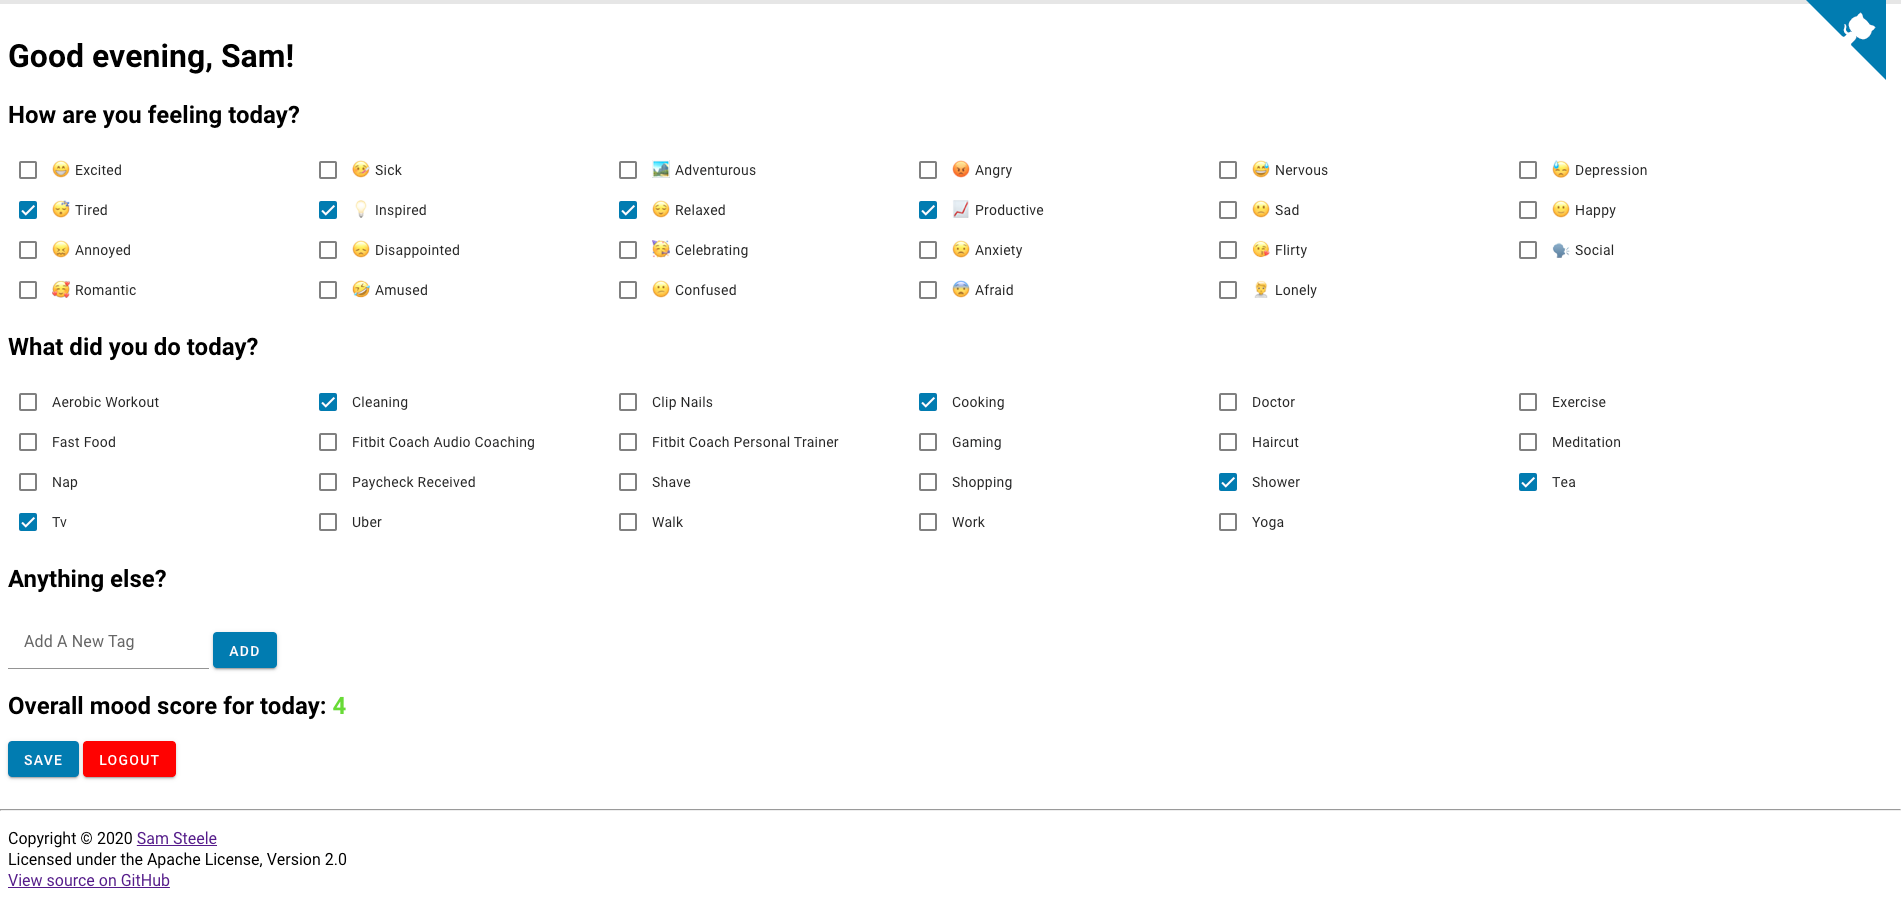
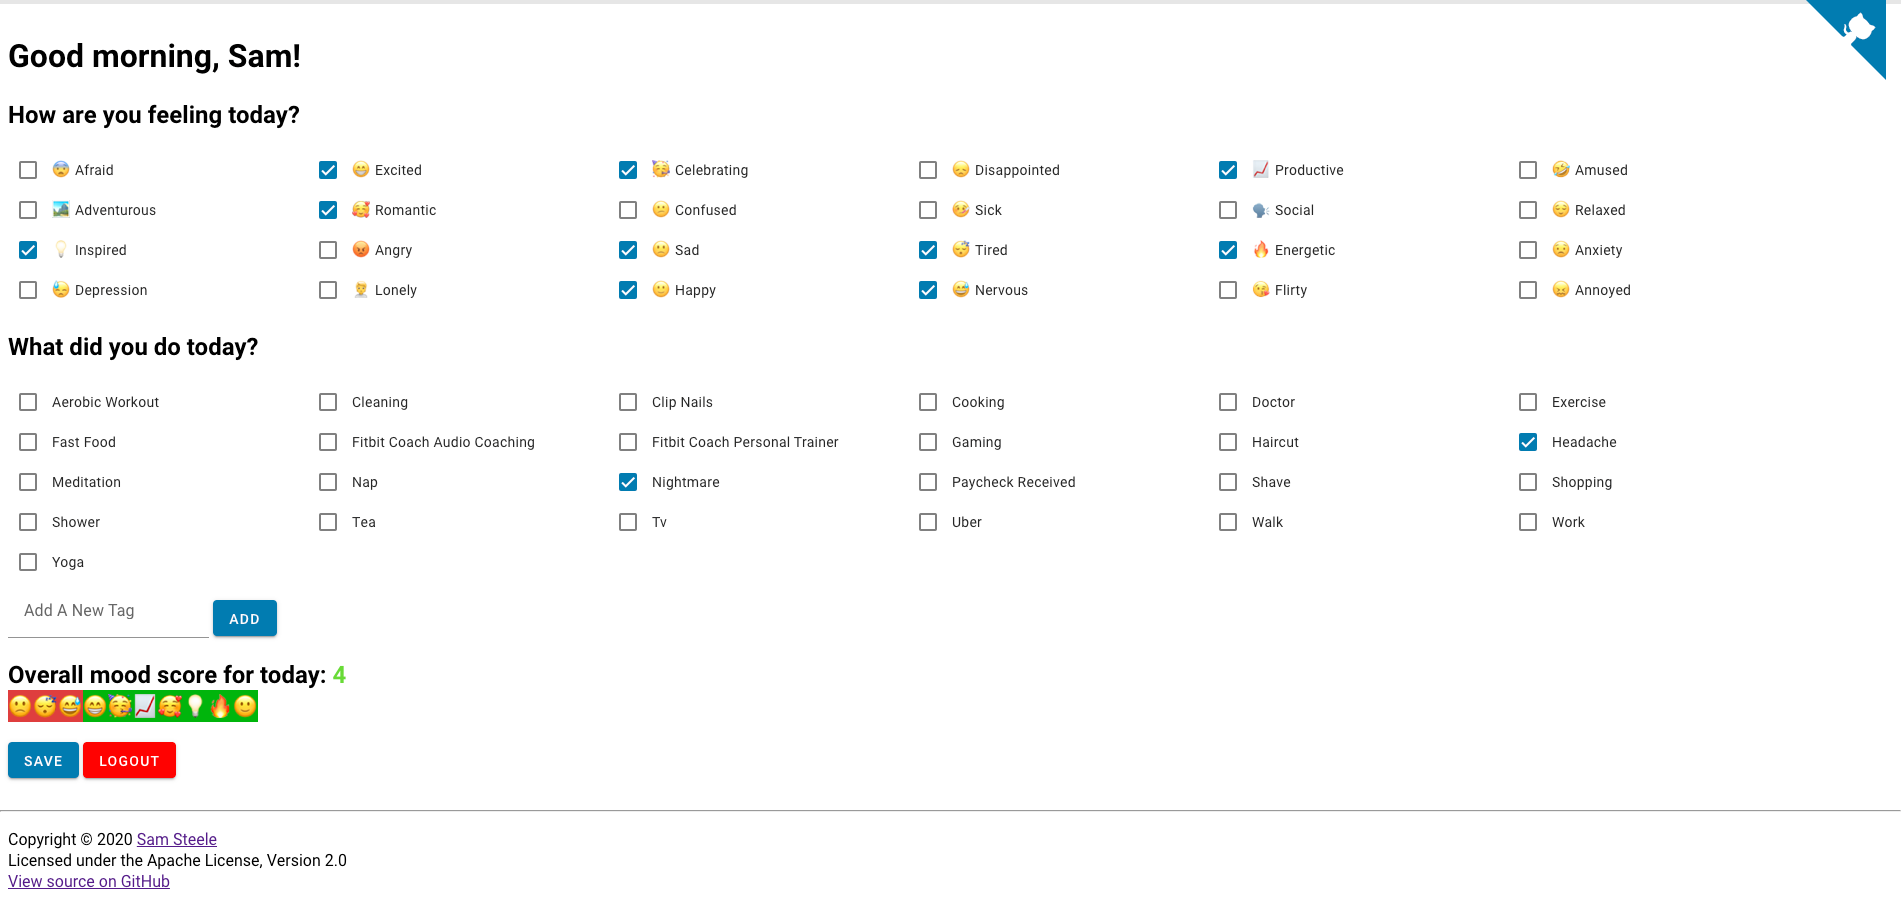
refactor emotion arrays, display positive and negative emojis below the score

diff --git a/script.js b/script.js
@@ -15,63 +15,38 @@
 
 let CLIENT_ID = "";
 let CLIENT_SECRET = "";
-let REDIRECT_URI = "https://localhost";
+let REDIRECT_URI = "https://localhost/";
 
-let positive_emotions = [
-  "adventurous",
-  "amused",
-  "celebrating",
-  "excited",
-  "flirty",
-  "happy",
-  "inspired",
-  "productive",
-  "relaxed",
-  "romantic",
-  "social"
-];
-let negative_emotions = [
-  "afraid",
-  "angry",
-  "annoyed",
-  "anxiety",
-  "confused",
-  "depression",
-  "disappointed",
-  "lonely",
-  "nervous",
-  "sad",
-  "sick",
-  "tired"
-];
-let emoji = {
+let emotions = [
   //positive
-  "adventurous": '🏞',
-  "amused":'🤣',
-  "celebrating":'🥳',
-  "excited":'😁',
-  "flirty":'😘',
-  "happy":'🙂',
-  "inspired":'💡',
-  "productive": '📈',
-  "relaxed":'😌',
-  "romantic":'🥰',
-  "social":'🗣',
+  {emotion:"adventurous", emoji:'🏞', score:1},
+  {emotion:"amused", emoji:'🤣', score:1},
+  {emotion:"celebrating", emoji:'🥳', score:1},
+  {emotion:"excited", emoji:'😁', score:1},
+  {emotion:"energetic", emoji:'🔥', score:1},
+  {emotion:"flirty", emoji:'😘', score:1},
+  {emotion:"happy", emoji:'🙂', score:1},
+  {emotion:"inspired", emoji:'💡', score:1},
+  {emotion:"productive", emoji:'📈', score:1},
+  {emotion:"relaxed", emoji:'😌', score:1},
+  {emotion:"romantic", emoji:'🥰', score:1},
+  {emotion:"social", emoji:'🗣', score:1},
 
   //negative
-  "afraid":'😨',
-  "angry":'😡',
-  "annoyed":'😖',
-  "anxiety":'😟',
-  "confused":'😕',
-  "depression":'😓',
-  "disappointed":'😞',
-  "lonely":'🙍',
-  "nervous":'😅',
-  "sad":'🙁',
-  "sick":'🤒',
-  "tired":'😴'
-}
+  {emotion:"afraid", emoji:'😨', score:-1},
+  {emotion:"angry", emoji:'😡', score:-1},
+  {emotion:"annoyed", emoji:'😖', score:-1},
+  {emotion:"anxiety", emoji:'😟', score:-1},
+  {emotion:"confused", emoji:'😕', score:-1},
+  {emotion:"depression", emoji:'😓', score:-1},
+  {emotion:"disappointed", emoji:'😞', score:-1},
+  {emotion:"lonely", emoji:'🙍', score:-1},
+  {emotion:"nervous", emoji:'😅', score:-1},
+  {emotion:"sad", emoji:'🙁', score:-1},
+  {emotion:"sick", emoji:'🤒', score:-1},
+  {emotion:"tired", emoji:'😴', score:-1},
+];
+
 let score = 0;
 let checkboxes = {}
 let progressBar = mdc.linearProgress.MDCLinearProgress.attachTo(document.querySelector('.mdc-linear-progress'));
@@ -90,6 +65,14 @@ let client = new jso.JSO({
 let fetcher = new jso.Fetcher(client)
 client.callback();
 check_token();
+
+function get_score(emotion) {
+  for(e of emotions) {
+    if(e.emotion == emotion)
+      return e.score;
+  }
+  return 0;
+}
 
 function check_token() {
   if(client.checkToken() !== null) {
@@ -125,15 +108,19 @@ function shuffleArray(array) {
 
 function update_score() {
   var count = 0;
+  var positive = "";
+  var negative = "";
   score = 0;
 
   for (const [name,checkbox] of Object.entries(checkboxes)) {
     if(checkbox.checked) {
-      if(positive_emotions.includes(name)) {
-        score++;
-        count++;
-      } else if(negative_emotions.includes(name)) {
-        score--;
+      s = get_score(name);
+      if(s != 0) {
+        if(s > 0)
+          positive += $('#' + name).attr('data-emoji');
+        else
+          negative += $('#' + name).attr('data-emoji');
+        score+=s;
         count++;
       }
     }
@@ -151,19 +138,25 @@ function update_score() {
     score = 3;
   }
   score = Math.round(score);
-  $('#score').html(`Overall mood score for today: <span class='score${score}'>${score}</span>`);
+  $('#score').html(`Overall mood score for today: <span class='score${score}'>${score}</span><br/><span class='negative'>${negative}</span><span class='positive'>${positive}</span>`);
 }
 
 function insert_tag(name, label, checked) {
   if(!(name in checkboxes)) {
-    if(name in emoji)
-      label = emoji[name] + "&nbsp;" + label;
+    var emoji = null;
+    for(e of emotions) {
+      if(e.emotion == name) {
+        label = e.emoji + "&nbsp;" + label;
+        emoji = e.emoji;
+        break;
+      }
+    }
     
     var form_field = $(`<div class="mdc-form-field">
         <div class="mdc-checkbox" id="mdc-${name}">
           <input type="checkbox"
                  class="mdc-checkbox__native-control"
-                 id="${name}" onChange="update_score()"/>
+                 id="${name}" onChange="update_score()" data-emoji="${emoji}"/>
           <div class="mdc-checkbox__background">
             <svg class="mdc-checkbox__checkmark"
                  viewBox="0 0 24 24">
@@ -178,7 +171,7 @@ function insert_tag(name, label, checked) {
         <label for="${name}">${label}</label>
       </div>`);
 
-    if(positive_emotions.includes(name) || negative_emotions.includes(name))
+    if(emoji != null)
       $('#emo_tags').append(form_field);
     else
       $('#other_tags').append(form_field);
@@ -188,11 +181,10 @@ function insert_tag(name, label, checked) {
 }
 
 function render_attributes(attributes) {
-  emotions = positive_emotions.concat(negative_emotions);
   shuffleArray(emotions);
 
   emotions.forEach(emotion => {
-    insert_tag(emotion, emotion, 0);
+    insert_tag(emotion.emotion, emotion.emotion, 0);
   })
 
   attributes.forEach(attribute => {

diff --git a/index.html b/index.html
@@ -53,7 +53,6 @@
         <div id="emo_tags"></div>
         <h2>What did you do today?</h2>
         <div id="other_tags"></div>
-        <h2>Anything else?</h2>
         <div class="mdc-text-field">
           <input type="text" id="new-tag" class="mdc-text-field__input" onKeyUp="if (event.keyCode == 13) $('.add-button').click();">
           <label class="mdc-floating-label" for="new-tag">Add A New Tag</label>

diff --git a/style.css b/style.css
@@ -33,3 +33,9 @@ body {
 .score5 {
   color: #00B50C;
 }
+.positive {
+  background-color: #00B50C;
+}
+.negative {
+  background-color: #DF3E3E;
+}
